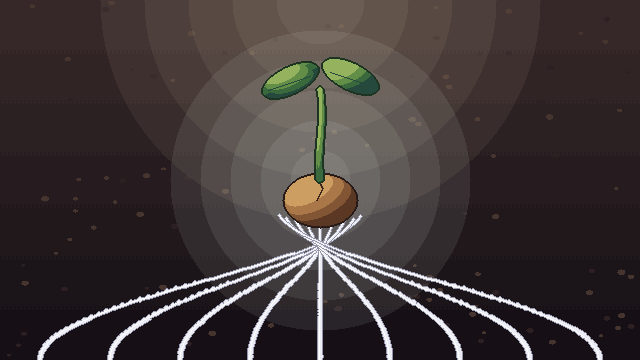
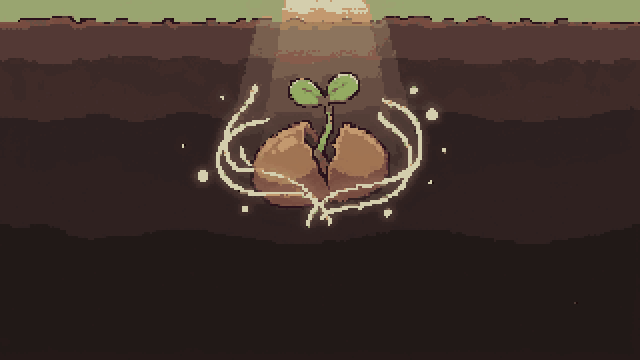
나노바나나 일러스트 sprout을 게임에: 흰 실이 감싸는 새싹, 한 번에 채택(보라 실 없음·둥근 빛 점 문장이 통함, 0131)
Claude-Session: https://claude.ai/code/session_01VNXEyeHwdhsn4oiHYXtNpM

diff --git a/tools/art/ai_illust.py b/tools/art/ai_illust.py
@@ -44,6 +44,7 @@ STAR = {
     'mother_burrow': (935, 483, 19),
     'bori_freed': (935, 483, 19),
     'momo_bloom': (935, 483, 19),
+    'sprout': (935, 483, 19),
     # 21:9(1024×434)
     'halmae_deep': (946, 356, 17),
     # 3:2(1024×687)

diff --git a/assets/LICENSES.md b/assets/LICENSES.md
@@ -11,7 +11,7 @@
 | `art/portraits.png` | 직접 그림. 원본 `tools/art/portraits.py`. **Naïl 칸 0~3·18~29, 포포 칸 5~6, 물든 모모 칸 7~8, 들쥐 대장(물든 보리) 칸 9, 보리 칸 10~11, 돌아온 모모 칸 12~14, 누룩 할매 칸 15~16, 엄마 칸 17, 도토 칸 30~32, 수수 칸 33~34, 콩이 칸 35~37**은 나노바나나(Google Gemini 이미지 모델)로 사장이 그린 원본 `tools/art/sources/ai/*.png`를 `tools/art/ai_portraits.py`가 칸으로 만든 것(2026-10-26, docs/decisions/0108·0109·0110·0112·0113·0114·0115·0116·0117·0118·0119·0120·0121·0122). 참고 그림은 직접 그린 초상화만 넣었다(팩 그림 없음, 0064). 모든 생성 그림에 SynthID 워터마크가 들어 있다 | © 2026 Beardworks | 대화창 초상화 88×88, 한 줄 12칸(Naïl 털빛 3 × 표정 4 포함, Naïl 표정 4 + 이웃 그림자 + 라쿤 포포 2 + 물든 모모 2 + 들쥐 대장·보리 3 + 돌아온 모모 3 + 누룩 할매 2 + 엄마 두더지 1 + 도토 3 + 수수 2 + 콩이 3) |
 | `art/critters.png` | 직접 그림. 원본 `tools/art/critters.py` | © 2026 Beardworks | 적(물든 들쥐·생쥐·시궁쥐·다람쥐·청설모)·허수아비·라쿤 포포·물든 모모·돌아온 모모·도토·돌아온 도토·수수·콩이·돌아온 콩이 16×16 + 흰 실루엣. v2 손으로 찍은 자세 |
 | `art/chief.png` | 직접 그림. 원본 `tools/art/chief.py` | © 2026 Beardworks | 튜토리얼 보스 들쥐 대장(물든 모습 8칸)·돌아온 보리(5칸) 32×32 + 흰 실루엣 |
-| `art/illust/*.png`(타이틀 바탕 `title.png`·`title_fog.png` 포함, 0083 — 타이틀은 바탕 그림 없이 코드로만) | 직접 그림(임시). 원본 `tools/art/illust.py`. **`great_tree`·`mother_burrow`·`bori_freed`·`momo_bloom`·`halmae_deep`·`last_bloom`**은 나노바나나(Google Gemini 이미지 모델)로 사장이 그린 원본 `tools/art/sources/ai/illust/*.png`를 `tools/art/ai_illust.py`가 게임 격자로 만든 것(2026-10-26, docs/decisions/0125~0130, 참고 그림은 나노바나나 캐릭터 시트·초상화와 (처음 둘은) 구도 그림만, 팩 그림 없음, SynthID 워터마크 있음) | © 2026 Beardworks(molehill 바탕은 아래 그림들, CC0·퍼블릭 도메인) | 컷씬 일러스트 9장 640×360(2배 밀도, 일부는 패닝용으로 더 큼). 사람이 그린 그림으로 바꾸면 이 행을 작가·계약으로 고친다(docs/art/cutscene-illustrations.md) |
+| `art/illust/*.png`(타이틀 바탕 `title.png`·`title_fog.png` 포함, 0083 — 타이틀은 바탕 그림 없이 코드로만) | 직접 그림(임시). 원본 `tools/art/illust.py`. **`great_tree`·`mother_burrow`·`bori_freed`·`momo_bloom`·`halmae_deep`·`last_bloom`·`sprout`**은 나노바나나(Google Gemini 이미지 모델)로 사장이 그린 원본 `tools/art/sources/ai/illust/*.png`를 `tools/art/ai_illust.py`가 게임 격자로 만든 것(2026-10-26, docs/decisions/0125~0131, 참고 그림은 나노바나나 캐릭터 시트·초상화와 (처음 둘은) 구도 그림만, 팩 그림 없음, SynthID 워터마크 있음) | © 2026 Beardworks(molehill 바탕은 아래 그림들, CC0·퍼블릭 도메인) | 컷씬 일러스트 9장 640×360(2배 밀도, 일부는 패닝용으로 더 큼). 사람이 그린 그림으로 바꾸면 이 행을 작가·계약으로 고친다(docs/art/cutscene-illustrations.md) |
 | `tools/art/sources/robert_mouth_of_cave.jpg` → `art/illust/mother_burrow.png` 흙벽 질감 | Hubert Robert, *The Mouth of a Cave*, 유화, 1784, The Met 17.190.25 [소장품 페이지](https://www.metmuseum.org/art/collection/search/437470) (web-large, 2026-10-26) | CC0(Met Open Access, `isPublicDomain: true`) | 엄마 굴 일러스트(0073). 오른쪽 바위벽만 잘라 좌우 대칭으로 넓히고 **밝기 질감으로만** 쓴다(색은 코드의 굴 색). 지금은 나노바나나 원본이 그 장면을 대신해 게임 그림에 쓰이지 않는다(코드 그림으로 되돌릴 때만, 0126) |
 | `tools/art/sources/meadow_at_sunset_1845.jpg` → `art/illust/bori_freed.png` 바탕 | *A Meadow at Sunset*, ca. 1845, National Gallery of Art 2013.196.3 소장. [rawpixel](https://www.rawpixel.com/image/7727995/image-art-public-domain-artworks) 이미지를 Openverse 썸네일(600px)로 받음(2026-10-26). 작가 이름은 rawpixel 제목에 'Paul'까지만 보여 확인 못 함 | CC0 1.0(Openverse 표기, NGA Open Access) | 보리 일러스트 바탕(0073). 지금은 나노바나나 원본이 그 장면을 대신해 게임 그림에 쓰이지 않는다(0127) |
 | `tools/art/sources/landscape_background_1846.jpg` → `art/illust/momo_bloom.png` 바탕 | *Landscape background*(1846–1848), 수채. [rawpixel](https://www.rawpixel.com/image/8544138/image-background-aesthetic-cloud) 이미지를 Openverse 썸네일(600px)로 받음(2026-10-26). 작가·소장처 미확인 | CC0 1.0(Openverse 표기) | 모모 일러스트 바탕(0073). 원 소장처를 확인하면 이 줄을 고친다. 지금은 나노바나나 원본이 그 장면을 대신해 게임 그림에 쓰이지 않는다(0128) |

diff --git a/docs/phase-1-combat-prototype.md b/docs/phase-1-combat-prototype.md
@@ -126,7 +126,7 @@
 | 해·모닥불 그림자(0102~0106, 시험) | `render.rs`(draw_sun_shadows·shadow_dir·sun_shear·silhouette_material, draw_sorted의 sun), `sunny.rs`(stamp_sun_shadow), `terrain.rs`(Baker::fires), `tuning.rs`(SUN_SHADOW_*·FIRE_SHADOW_*·DECOR_LIFT_*) | 서 있는 것의 모양을 발 줄 축으로 눕혀 렌더 타깃에 모아 한 번에 얹는다. 밝은 곳은 해(오른쪽 아래), 모닥불 곁은 불 바깥쪽(150px, 멀수록 길게, 불이 아래면 더 길게 0104, 어두운 곳은 바깥으로 옅게). 모닥불 돌은 돌만 키운 모양(뒤쪽은 짧게, 0105). 그림자 패스는 몸만(빛·표시·반투명·바닥 것 제외, 밝은 곳은 타원 그림자 끔, 0106). 구운 꽃·조약돌·풀포기는 높이 비율만큼 짧게 |
 | Naïl·포포·모모(돌아옴·물듦)·보리(돌아옴·물듦)·누룩 할매·엄마·도토(돌아옴·물듦)·수수·콩이(돌아옴·물듦) 초상화 나노바나나(0107~0122, 이웃 그림자 칸 4 말고 모두) | `tools/art/sources/ai/nail_*.png`, `tools/art/ai_portraits.py`, `tools/art/portraits.py`(sheet), `docs/art/nano-banana-prompts.md` | 표정 넷 원본 → 로고 지우기·결의 눈 색·배경 투명·88×88·한 팔레트(눈 8색 따로)·털빛 셋(주둥이·발톱은 자리로 지킴). 포포: 틀 맞추기(높이 92%)·채도 높은 색 따로. 모모: 검은 선 → 자두빛, 틀 1.22(귀 끝을 칸 맨 위에, 가슴을 칸 아래로), 가슴이 지워지지 않게 아래 끝 번지기 끔. 물든 모모: 같은 틀, 실은 굵게·위로, 눈은 선명한 초록으로 고쳐 그림, 흰빛은 보랏빛으로 물들임. 보리: 시트를 통통하게 고쳐 그림, 틀 그대로. 들쥐 대장: 보리를 고쳐 그림, 눈 팔레트 안 뗌(보라 기운 털), 빨간 눈 밝게. 할매: 시트의 둥근 얼굴 판으로 표정 짝, 둘러싸인 배경 틈 지움. 엄마: Naïl 초상화를 함께 넣고 털을 짙고 매끈하게, 앞발은 따로 고쳐 그림. Naïl 결의: 덜 표독스럽게 다시 그림, 팔레트를 얼려 다른 칸은 그대로. 도토: 시트에서 조끼·보라 꽃·리본 빼고, 몸이 잘린 줄까지만 써 배 구멍 막음. 물든 도토: 도토를 고쳐 그림, 호박색 눈 밝게. 수수: 생김새 글을 새로 쓰고 삽발을 칸 아래에. 콩이: 3/4 모습 기준, 토끼 귀가 아닌 뾰족한 귀. 물든 콩이: 하늘빛 눈 밝히기, 배경색 잡기를 튀는 점에 강하게. 다른 캐릭터는 다음 차례 |
 | 앱 아이콘: 큰 나무·실에 얽힌 뿌리 실루엣(0123) | `tools/icons/make_icons.py`(`art`), `ios/icons`, `android/res/mipmap-*` | 64칸 코드 그림, 금빛 원 앞 나무 + 보랏빛 앞 뿌리 + 뿌리 다발을 묶는 실 고리 둘. 일러스트에서 자른 것과 견주어 이것을 유지(48px에서 읽힘) |
-| 나노바나나 일러스트(0125~) | `tools/art/sources/ai/illust/*.png`, `tools/art/ai_illust.py`, `tools/art/illust.py`(main) | `great_tree`·`mother_burrow`(실을 지운 자리에 맨 나무껍질을 그리게 해 집 장면에서 실 제거)·`bori_freed`(물든 모습 그림을 빼고 시트대로 다시 그림)·`momo_bloom`(구도 그림을 빼고 비율을 글로)·`halmae_deep`(Naïl을 대화창 위로)·`last_bloom`(이웃 넷을 패닝 끝 대화창 위로). 남은 장면도 구도 그림 없이. 게임 칸마다 가장 흔한 색 + 채도 높은 색은 색상별 팔레트·칸 문턱 15%(작은 빨간 눈을 지킨다). 남은 장면은 같은 길 |
+| 나노바나나 일러스트(0125~) | `tools/art/sources/ai/illust/*.png`, `tools/art/ai_illust.py`, `tools/art/illust.py`(main) | `great_tree`·`mother_burrow`(실을 지운 자리에 맨 나무껍질을 그리게 해 집 장면에서 실 제거)·`bori_freed`(물든 모습 그림을 빼고 시트대로 다시 그림)·`momo_bloom`(구도 그림을 빼고 비율을 글로)·`halmae_deep`(Naïl을 대화창 위로)·`last_bloom`(이웃 넷을 패닝 끝 대화창 위로)·`sprout`. 남은 장면도 구도 그림 없이. 게임 칸마다 가장 흔한 색 + 채도 높은 색은 색상별 팔레트·칸 문턱 15%(작은 빨간 눈을 지킨다). 남은 장면은 같은 길 |
 | 웨이브 | `world.rs`, `scenario.rs` | 지금은 개발 시나리오(아레나·웨이브 3부터)에서만. 적을 다 잡으면 1.2초 뒤 다음 웨이브(1C+1S → 2C+1S → 2C+2S → 3C+2S). 명세엔 없지만 5분 플레이 판정을 위해 넣음 |
 
 확인한 것: 데스크톱(Xvfb) 실행 캡처로 렌더 방향·공격 반원·굴파기·히트박스 표시, 헤드리스 Chromium으로 웹 빌드 로드·입력·콘솔(mismatch 없음). 확인 못 한 것: 실제 손맛(판정 1~4), 실기 게임패드, 소리의 실제 느낌(컨테이너에 오디오 장치 없음).

diff --git a/docs/decisions/0131-ai-illustration-sprout.md b/docs/decisions/0131-ai-illustration-sprout.md
@@ -1,0 +1,12 @@
+# 0131. 나노바나나 일러스트 `sprout`
+
+- 날짜: 2026-10-26
+- 상태: 채택. 0130에 이은 일곱째 장. 첨부 없음(캐릭터 없음, "Aspect ratio 16:9").
+
+## 결정(`tools/art/sources/ai/illust/sprout.png`)
+- 한 번에 채택. 갈라진 씨앗과 떡잎 둘, 손처럼 감싸는 흰 실, 위에서 내려오는 빛. 씨앗·새싹은 높이 21~61%라 내레이션 창 위다. ✦는 16:9 자리(935,483).
+- 세계 규칙에 "보라 실 없음, 흰 실만"을 박았고, 빛 알갱이는 "small round dots of light"로 적어 네 꼭짓점 별이 나오지 않았다(0128의 교훈이 통했다).
+
+## 확인
+- `assets/art/illust/`에서 바뀐 그림은 `sprout.png`뿐이다. 게임 크기에서 ✦가 없다.
+- 헤드리스: 개발 → "이야기 일러스트"의 에필로그 "흰 실" 화면에 새 그림이 나온다.
